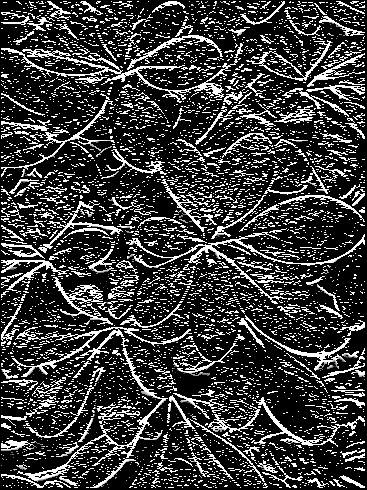
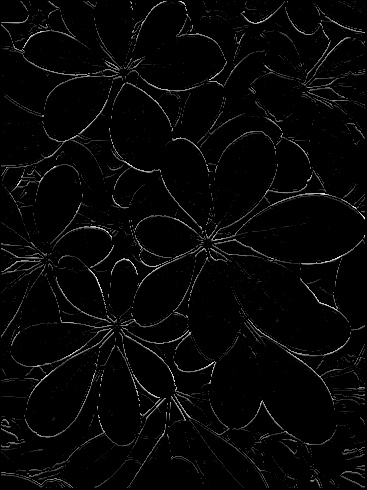
Corrected code. Requires thinning before completion

Changed region(s): [[0.0, 0.0, 1.0, 1.0]]

diff --git a/A0101856J_SebastianWong_Lab3/A0101856J_SebastianWong_Lab3.py b/A0101856J_SebastianWong_Lab3/A0101856J_SebastianWong_Lab3.py
@@ -16,11 +16,17 @@ sobelVertical = np.array([[1,2,1],[0,0,0],[-1,-2,-1]])
 prewittVertical = np.array([[1,1,1],[0,0,0],[-1,-1,-1]])
 
 img = cv2.imread(os.getcwd() + "/pictures/example.jpg", cv2.CV_LOAD_IMAGE_GRAYSCALE)
+
+cv2.imwrite("grey.jpg", img)	
+
 imgShape = img.shape
 imgHeight = imgShape[0]
 imgWidth = imgShape[1]
 sobelResults = np.zeros([imgHeight,imgWidth])
 prewittResults = np.zeros([imgHeight,imgWidth])
+maxEdgeStrSobel = maxEdgeStrPrewitt = 0
+maxHorizontalEdgeStrSobel = maxVerticalEdgeStrSobel = 0
+maxHorizontalEdgeStrPrewitt = maxVerticalEdgeStrPrewitt = 0
 
 # Filtering
 # for every pixel
@@ -29,44 +35,73 @@ for x in range(0, imgHeight-2):
 		# each matrix placement
 		pixelXSobel = pixelYSobel = pixelXPreWitt = pixelYPreWitt = edgeStrSobel = edgeStrPewitt = 0
 
-		pixelXSobel = (sobelHorizontal[0][0] * img[x][y]) + (sobelHorizontal[0][1] * img[x][y+1]) + (sobelHorizontal[0][2] * img[x][y+2])
-		+ (sobelHorizontal[1][0] * img [x+1][y]) + (sobelHorizontal[1][1] * img[x+1][y+1]) + (sobelHorizontal[1][2] * img[x+1][y+2])
-		+ (sobelHorizontal[2][0] * img[x+2][y]) + (sobelHorizontal[2][1] * img[x+2][y+1]) + (sobelHorizontal[2][2] + img[x+2][y+2])
+		pixelXSobel = ((sobelHorizontal[0][0] * img[x][y]) + (sobelHorizontal[0][1] * img[x][y+1]) + (sobelHorizontal[0][2] * img[x][y+2]) + 
+		(sobelHorizontal[1][0] * img [x+1][y]) + (sobelHorizontal[1][1] * img[x+1][y+1]) + (sobelHorizontal[1][2] * img[x+1][y+2]) + 
+		(sobelHorizontal[2][0] * img[x+2][y]) + (sobelHorizontal[2][1] * img[x+2][y+1]) + (sobelHorizontal[2][2] * img[x+2][y+2]))
 
-		pixelYSobel = (sobelVertical[0][0] * img[x][y]) + (sobelVertical[0][1] * img[x][y+1]) + (sobelVertical[0][2] * img[x][y+2])
-		+ (sobelVertical[1][0] * img [x+1][y]) + (sobelVertical[1][1] * img[x+1][y+1]) + (sobelVertical[1][2] * img[x+1][y+2])
-		+ (sobelVertical[2][0] * img[x+2][y]) + (sobelVertical[2][1] * img[x+2][y+1]) + (sobelVertical[2][2] + img[x+2][y+2])
+		pixelYSobel = ((sobelVertical[0][0] * img[x][y]) + (sobelVertical[0][1] * img[x][y+1]) + (sobelVertical[0][2] * img[x][y+2]) + 
+		(sobelVertical[1][0] * img [x+1][y]) + (sobelVertical[1][1] * img[x+1][y+1]) + (sobelVertical[1][2] * img[x+1][y+2]) + 
+		(sobelVertical[2][0] * img[x+2][y]) + (sobelVertical[2][1] * img[x+2][y+1]) + (sobelVertical[2][2] * img[x+2][y+2]))
 
-		pixelXPreWitt = (prewittHorizontal[0][0] * img[x][y]) + (prewittHorizontal[0][1] * img[x][y+1]) + (prewittHorizontal[0][2] * img[x][y+2])
-		+ (prewittHorizontal[1][0] * img [x+1][y]) + (prewittHorizontal[1][1] * img[x+1][y+1]) + (prewittHorizontal[1][2] * img[x+1][y+2])
-		+ (prewittHorizontal[2][0] * img[x+2][y]) + (prewittHorizontal[2][1] * img[x+2][y+1]) + (prewittHorizontal[2][2] + img[x+2][y+2])
+		pixelXPreWitt = ((prewittHorizontal[0][0] * img[x][y]) + (prewittHorizontal[0][1] * img[x][y+1]) + (prewittHorizontal[0][2] * img[x][y+2]) + 
+		(prewittHorizontal[1][0] * img [x+1][y]) + (prewittHorizontal[1][1] * img[x+1][y+1]) + (prewittHorizontal[1][2] * img[x+1][y+2]) + 
+		(prewittHorizontal[2][0] * img[x+2][y]) + (prewittHorizontal[2][1] * img[x+2][y+1]) + (prewittHorizontal[2][2] * img[x+2][y+2]))
 
-		pixelYPreWitt = (prewittVertical[0][0] * img[x][y]) + (prewittVertical[0][1] * img[x][y+1]) + (prewittVertical[0][2] * img[x][y+2])
-		+ (prewittVertical[1][0] * img [x+1][y]) + (prewittVertical[1][1] * img[x+1][y+1]) + (prewittVertical[1][2] * img[x+1][y+2])
-		+ (prewittVertical[2][0] * img[x+2][y]) + (prewittVertical[2][1] * img[x+2][y+1]) + (prewittVertical[2][2] + img[x+2][y+2])
+		pixelYPreWitt = ((prewittVertical[0][0] * img[x][y]) + (prewittVertical[0][1] * img[x][y+1]) + (prewittVertical[0][2] * img[x][y+2]) + 
+		(prewittVertical[1][0] * img [x+1][y]) + (prewittVertical[1][1] * img[x+1][y+1]) + (prewittVertical[1][2] * img[x+1][y+2]) + 
+		(prewittVertical[2][0] * img[x+2][y]) + (prewittVertical[2][1] * img[x+2][y+1]) + (prewittVertical[2][2] * img[x+2][y+2]))
 
-		#edgeStrSobel = math.sqrt((math.pow(abs(pixelXSobel),2)) + ((math.pow(abs(pixelYSobel),2))))
-		#edgeStrPewitt = math.sqrt((math.pow(abs(pixelXPreWitt),2)) + ((math.pow(abs(pixelYPreWitt),2))))
+		# Finding maximum horizontal edge strength for sobel
+		if (maxHorizontalEdgeStrSobel < pixelXSobel):
+			maxHorizontalEdgeStrSobel = pixelXSobel
+		# Finding maximum vertical edge strength for sobel
+		if (maxVerticalEdgeStrSobel < pixelYSobel):
+			maxVerticalEdgeStrSobel = pixelYSobel
+	 	# Finding maximum horizontal edge strength for Prewitt
+		if (maxHorizontalEdgeStrPrewitt < pixelXPreWitt):
+			maxHorizontalEdgeStrPrewitt = pixelXPreWitt
+		# Finding maximum vertical edge strength for Pewitt
+		if (maxVerticalEdgeStrPrewitt < pixelYPreWitt):
+			maxVerticalEdgeStrPrewitt = pixelYPreWitt
 
+		# Calculating edge strength	
+		edgeStrSobel = math.sqrt((math.pow(abs(pixelXSobel),2)) + ((math.pow(abs(pixelYSobel),2))))
+		edgeStrPewitt = math.sqrt((math.pow(abs(pixelXPreWitt),2)) + ((math.pow(abs(pixelYPreWitt),2))))
 
-		edgeStrSobel = math.sqrt((pixelXSobel**2) + (pixelYSobel**2))
-		edgeStrPewitt = math.sqrt((pixelXPreWitt**2) + (pixelYPreWitt**2))
+		# Finding max edge strength
+		if (maxEdgeStrSobel < edgeStrSobel):
+			maxEdgeStrSobel = edgeStrSobel	
+		# Finding max edge strength
+		if (maxEdgeStrPewitt < edgeStrPewitt):
+			maxEdgeStrPewitt = edgeStrPewitt
+
 		sobelResults[x+1][y+1] = edgeStrSobel
 		prewittResults[x+1][y+1] = edgeStrPewitt
 
-cv2.imwrite("examplesobel.jpg", sobelResults)
-cv2.imwrite("exampleprewitt.jpg", prewittResults)
+cv2.imwrite("example_sobel.jpg", sobelResults)
+cv2.imwrite("example_prewitt.jpg", prewittResults)
 
-#thinning of sobel image
-thinningC, thinningR = sobelResults.shape
-img_thinned = np.zeros((thinningC, thinningR))
-prevIntensity = 0
-curIntensity = 0
-for thinningIndexR in range(0, thinningR):
-    for thinningIndexC in range(0, thinningC):
-        if(thinningIndexC < thinningC-2 and thinningIndexR < thinningR-2):
-            prevIntensity = sobelResults[thinningIndexC, thinningIndexR]
-            curIntensity = sobelResults[thinningIndexC+1, thinningIndexR]
-            if(curIntensity + 15 < prevIntensity):
-                img_thinned[thinningIndexC, thinningIndexR] = prevIntensity
-cv2.imwrite('sobel_thinned.jpg',img_thinned)
+# Scaling results to 255
+sobelResults = sobelResults * (255/maxEdgeStrSobel)
+prewittResults = prewittResults * (255/maxEdgeStrPewitt)		
+cv2.imwrite("example_sobel_scaled.jpg", sobelResults)
+cv2.imwrite("example_prewitt_scaled.jpg", prewittResults)
+
+#thinning of Sobel and Prewitt edges
+r , c = sobelResults.shape
+sobelResultsThinned = prewittResultsThinned = np.zeros([r,c])
+for rows in range(len(sobelResults)):
+	for columns in range(len(sobelResults[rows])):
+		if (sobelResults[rows][columns] < (maxHorizontalEdgeStrSobel * 255/maxEdgeStrSobel) and sobelResults[rows][columns] < (maxVerticalEdgeStrSobel * 255/maxEdgeStrSobel)):
+			sobelResultsThinned[rows][columns] = 0
+		else:
+			sobelResultsThinned[rows][columns] = sobelResults[rows][columns]	
+		if (prewittResults[rows][columns] < (maxHorizontalEdgeStrPrewitt * 255/maxEdgeStrPewitt) and prewittResults[rows][columns] < (maxVerticalEdgeStrPrewitt * 255/maxEdgeStrPewitt)):
+			prewittResultsThinned[rows][columns] = 0
+		else:
+			prewittResultsThinned[rows][columns] = prewittResults[rows][columns]
+
+cv2.imwrite("example_sobel_scaled_thinned.jpg", sobelResultsThinned)
+cv2.imwrite("example_prewitt_scaled_thinned.jpg", prewittResultsThinned)			
+				 
+
